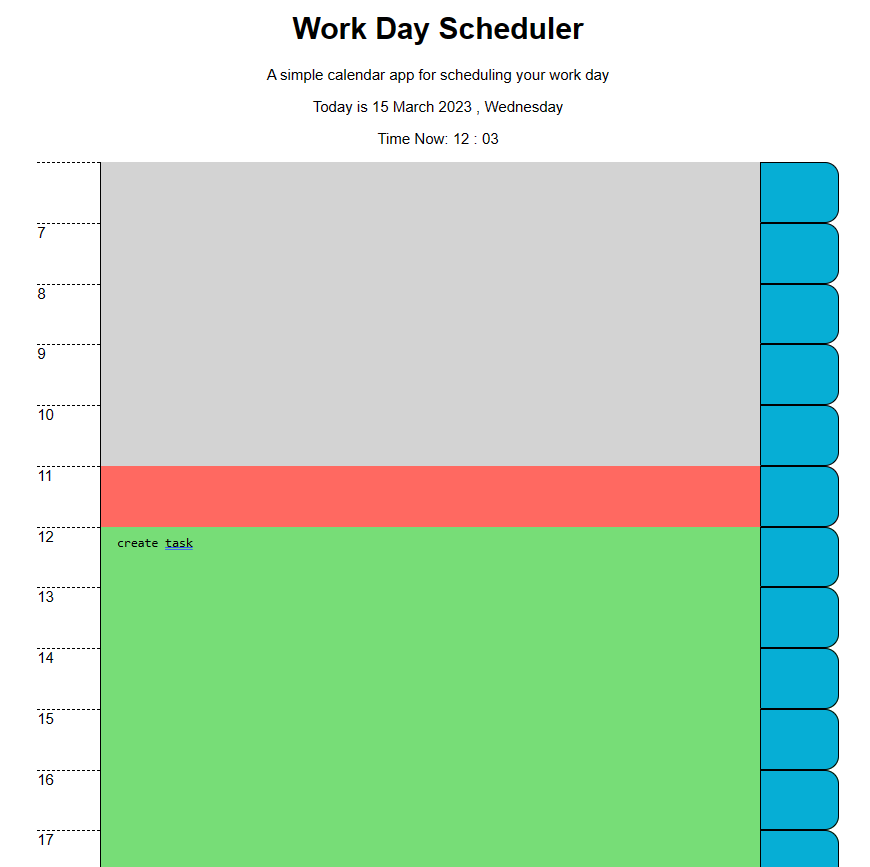
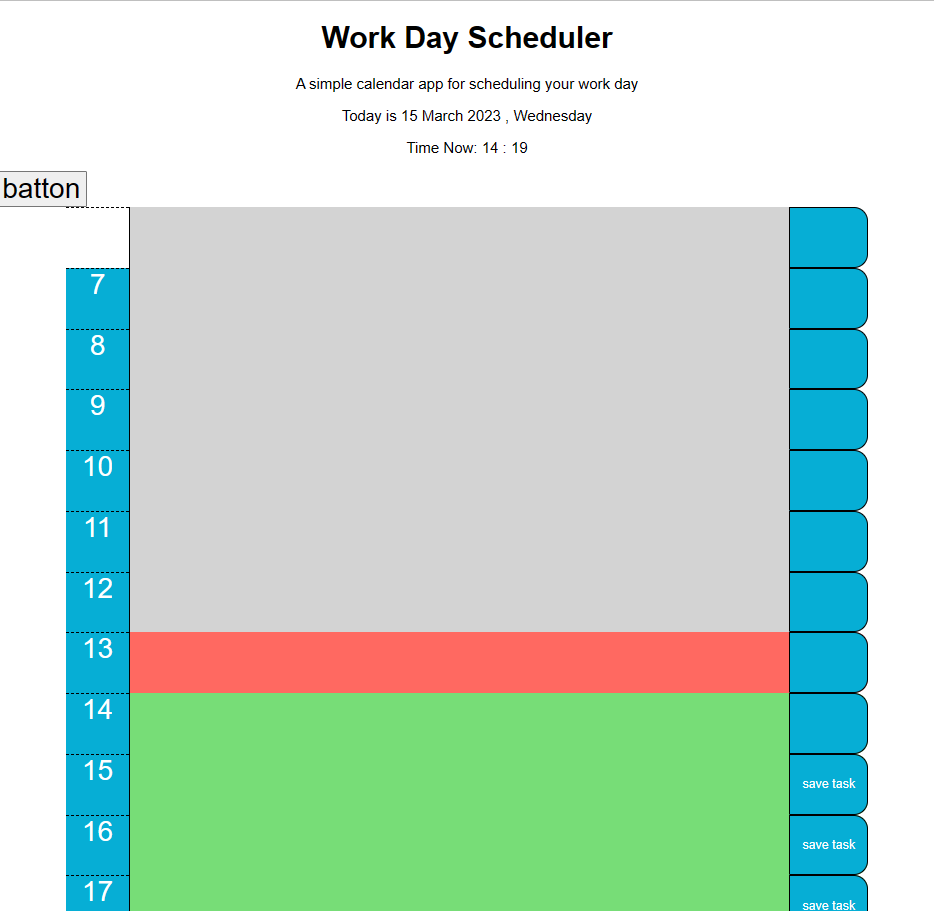
styling of the center(hour) element

diff --git a/assets/scripts/script.js b/assets/scripts/script.js
@@ -1,20 +1,20 @@
 
 $(document).ready(function(){});
 
-//const workhours = ["7am", "8am", "9am", "10am", "11am", "12pm", "1pm", "2pm", "3pm", "4pm",  "5pm", "6pm"] 
+
 const workhours = [7, 8, 9, 10, 11, 12, 13, 14, 15, 16, 17, 18, 19, 20, 21,22 ];
 
 var day = $(".container_day1");
 //var hour =document.getElementById("hour"); 
 //var hour = $ ("#hour"); 
 var hour = $(day.children[0])  ;
-var hourPast =$(".past");
-var hourPresent =$(".present");
-var hourFuture =$(".future");
-var btnNextHour = $("#nextHour");
+
+var divHour =  $("#entryHour");
+//var btnNextHour = $("#nextHour");
+
 //var currentTime = dayjs().format('ha');
 var currentTime = dayjs().format('H');
-//var currentTime = "12pm";
+
 
  //var dayy = dayjs().hour(5);
 
@@ -26,23 +26,19 @@ $("#currentDay").text(dayjs().format('[Today is] D MMMM YYYY [,] dddd'));
 $("#currentTime").text(dayjs().format('[Time Now:] H [:] mm'));
 console.log(currentTime);
 
-     //$("#entryHour").clone().appendTo(hour);
-    // $("#task").clone().appendTo(hour);
-   //  $("#saveBtn").clone().appendTo(hour);
-   //  $("#entryHour").text(workhours[i]);  
-   
-    // $("#hour").clone().appendTo(day);
-     
-  
+
   function reviewTime(){
      for (let h=0; h<workhours.length; h++){
             if(workhours[h]<currentTime){
               var newHour = $('<div>');
               newHour.addClass('past');
-              $("#entryHour").clone().appendTo(newHour);
+              divHour.clone().appendTo(newHour);
               $("#task").clone().appendTo(newHour);
               $("#saveBtn").clone().appendTo(newHour);
-              $("#entryHour").text(workhours[h]); 
+              divHour.text(workhours[h]);
+            divHour.css({
+              "background-color": "#06aed5",
+               "color":"white", "font-size": "30px", "text-align": "center"});
               newHour.appendTo(day);
               console.log("past: " + workhours[h]);
               
@@ -54,6 +50,7 @@ console.log(currentTime);
               $("#task").clone().appendTo(newHour);
               $("#saveBtn").clone().appendTo(newHour);
               $("#entryHour").text(workhours[h]); 
+              $("#saveBtn").text("save task");
               newHour.appendTo(day);
               console.log("future: " + workhours[h]);
                   }
@@ -82,6 +79,6 @@ $("#saveBtn").clone().appendTo(hour);
 }
 
 
-btnNextHour.click(bringTask);
+//btnNextHour.click(bringTask);
 
 

diff --git a/assets/style/style.css b/assets/style/style.css
@@ -16,6 +16,7 @@ header {
   color: white;
 }
 
+
 .past {
   display: flex;
   justify-content: space-between;
@@ -47,6 +48,7 @@ header {
   background-color: #ffffff;
   color: #000000;
   border-top: 1px dashed #000000;
+ 
   width: 8%;
 }
 
@@ -64,13 +66,13 @@ textarea {
   white-space: pre-wrap;
 }
 
-.time-block {
+/*.time-block {
   border-radius: 15px;
 }
 
 .row {
   border-top: 1px solid white;
-}
+}*/
 
 .saveBtn {
   border-left: 1px solid black;
@@ -80,8 +82,19 @@ textarea {
   color: white;
   width: 10%;
 }
+.formatBTN {
+  font-size: 30px;
+  
+}
 
-.saveBtn i:hover {
+.formatBTN:hover {opacity: 0.7; color: red; background-color: #06aed5;}
+
+.saveBtn:hover {
   font-size: 20px;
   transition: all 0.3s ease-in-out;
 }
+/*
+.saveBtn i:hover {
+  font-size: 20px;
+  transition: all 0.3s ease-in-out;
+}*/

diff --git a/index.html b/index.html
@@ -17,14 +17,16 @@
     </header>
     
 
+<button class = "formatBTN">batton</button>
+
    <!-- <div class="container-lg px-5">-->
       <div class="container_day1">
               <div id="hour" class="template">
               <div id = "entryHour" class="hour"> </div>
               <textarea id = "task" class="description" rows="3"> </textarea>
               <button id = "saveBtn" class="saveBtn" aria-label="save">
-              <i class="fas fa-save" aria-hidden="true"></i>
-              </button>
+           <i class="fas fa-save" aria-hidden="true"></i>
+          </button>
         </div>
        
      
